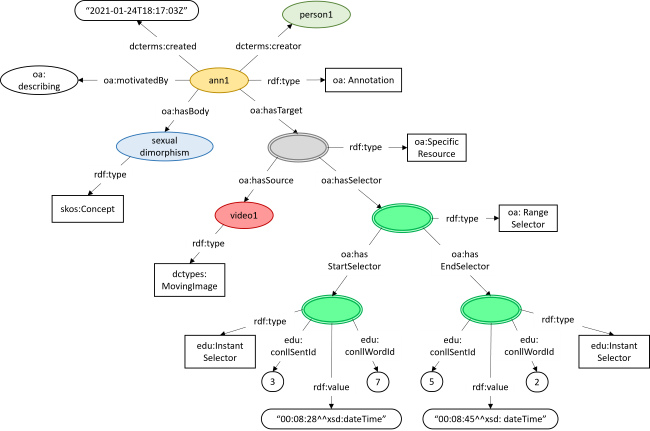
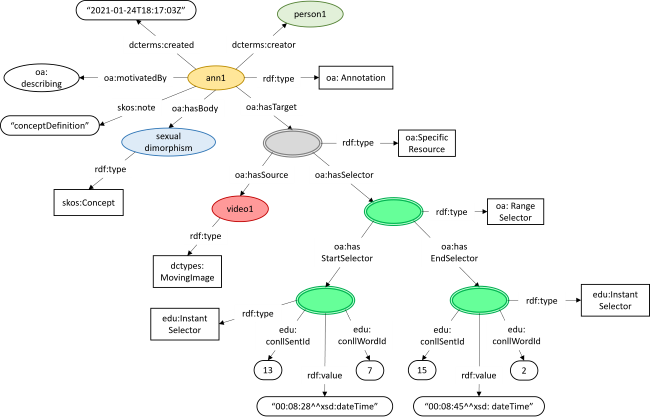
Updated with conceptDefinition/conceptExpansion

diff --git a/index.html b/index.html
@@ -1526,7 +1526,7 @@ github.com style (c) Vasily Polovnyov <vast@whiteants.net>
         A video lesson, but more in general every long-form informative content, may be about different concepts, which are developed along the content. Concepts may intertwine with one another, so that some parts of the resource may be about more than one concept at a time.
       </p>
       <p>
-        The Concept Annotation is used to annotate a portion of the video with the concept it's about. The combination of all annotations of this type provides a complete map of all concepts which are explained, with the possibility for concepts to be repeated throughout the video.
+        The Concept Annotation is used to annotate a portion of the video with the concept it's about. It is possible to specify whether a segment of video contains a definition of a concept or an expansion of it, for example when adding details to a previously introduced one. The combination of all annotations of this type provides a complete map of all concepts which are explained, with the possibility for concepts to be repeated throughout the video.
       </p>
       <div class="diagram_img">
         <img src="images/annotation-concept.png" alt="concept annotation" longdesc="#annotation-concept">
@@ -1563,6 +1563,11 @@ github.com style (c) Vasily Polovnyov <vast@whiteants.net>
             <td><code>oa:SpecificResource</code></td>
             <td>The segment of the video (and, optionally, the associated portion of text) of which the annotation states the topic. Check out <a href="#annotation-concept-target">2.2.1 Target</a>
             </td>
+          </tr>
+          <tr>
+            <td>skos:note</td>
+            <td>"conceptDefinition" <i>or</i> "conceptExpansion"</td>
+            <td>A literal expressing whether the annotated segment is defining the specified concept (conceptDefinition) or is adding details to a concept which (presumably) has been already introduced (conceptExpansion).</td>
           </tr>
         </tbody>
       </table>
@@ -1635,6 +1640,7 @@ github.com style (c) Vasily Polovnyov <vast@whiteants.net>
 <span class="w">                </span><span class="nn">rdf:</span><span class="nt">value</span><span class="w"> </span><span class="s">"00:08:45^^xsd:dateTime"</span><span class="w"> </span><span class="p">;</span><span class="w"></span>
 <span class="w">                </span><span class="nn">edu:</span><span class="nt">conllSentId</span><span class="w"> </span><span class="s">5</span><span class="w"> </span><span class="p">;</span><span class="w"></span>
 <span class="w">                </span><span class="nn">edu:</span><span class="nt">conllWordId</span><span class="w"> </span><span class="s">2</span><span class="w"> </span><span class="p">]</span><span class="w"> </span><span class="p">]</span><span class="w"> </span><span class="p">]</span><span class="w"> </span><span class="p">;</span><span class="w"></span>
+<span class="w">    </span><span class="nn">skos:</span><span class="nt">note</span><span class="w"> </span><span class="s">"conceptDefinition"</span><span class="w"> </span><span class="p">.</span><span class="w"></span>
 <span class="w">    </span><span class="nn">dcterms:</span><span class="nt">creator</span><span class="w"> </span><span class="nv">&lt;http://example.org/person1&gt;</span><span class="w"> </span><span class="p">;</span><span class="w"></span>
 <span class="w">    </span><span class="nn">dcterms:</span><span class="nt">created</span><span class="w"> </span><span class="s">"2021-04-18T12:10:04Z"</span><span class="w"> </span><span class="p">.</span><span class="w"></span>
 
